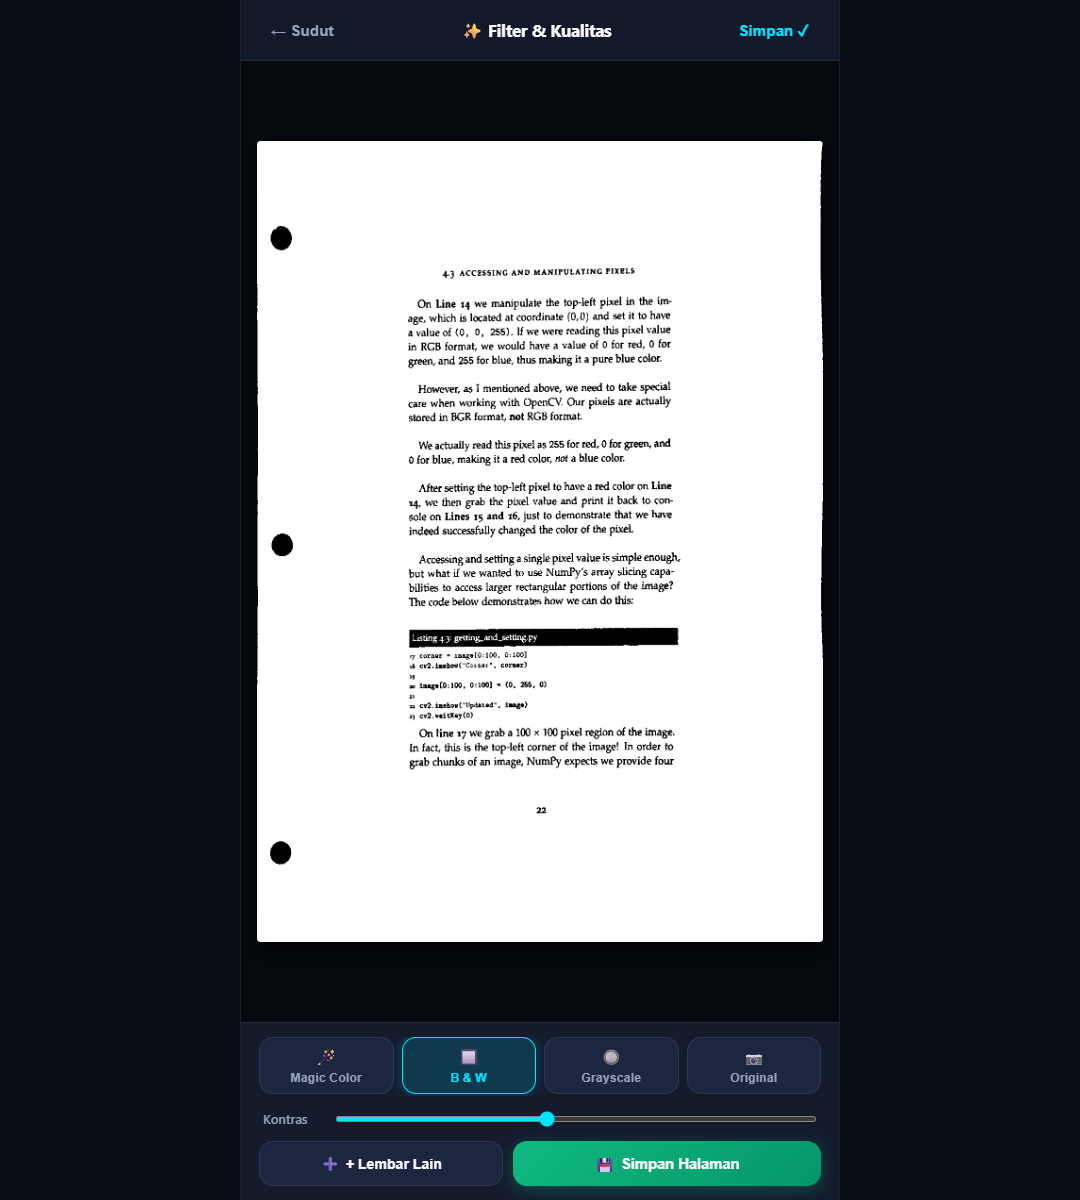
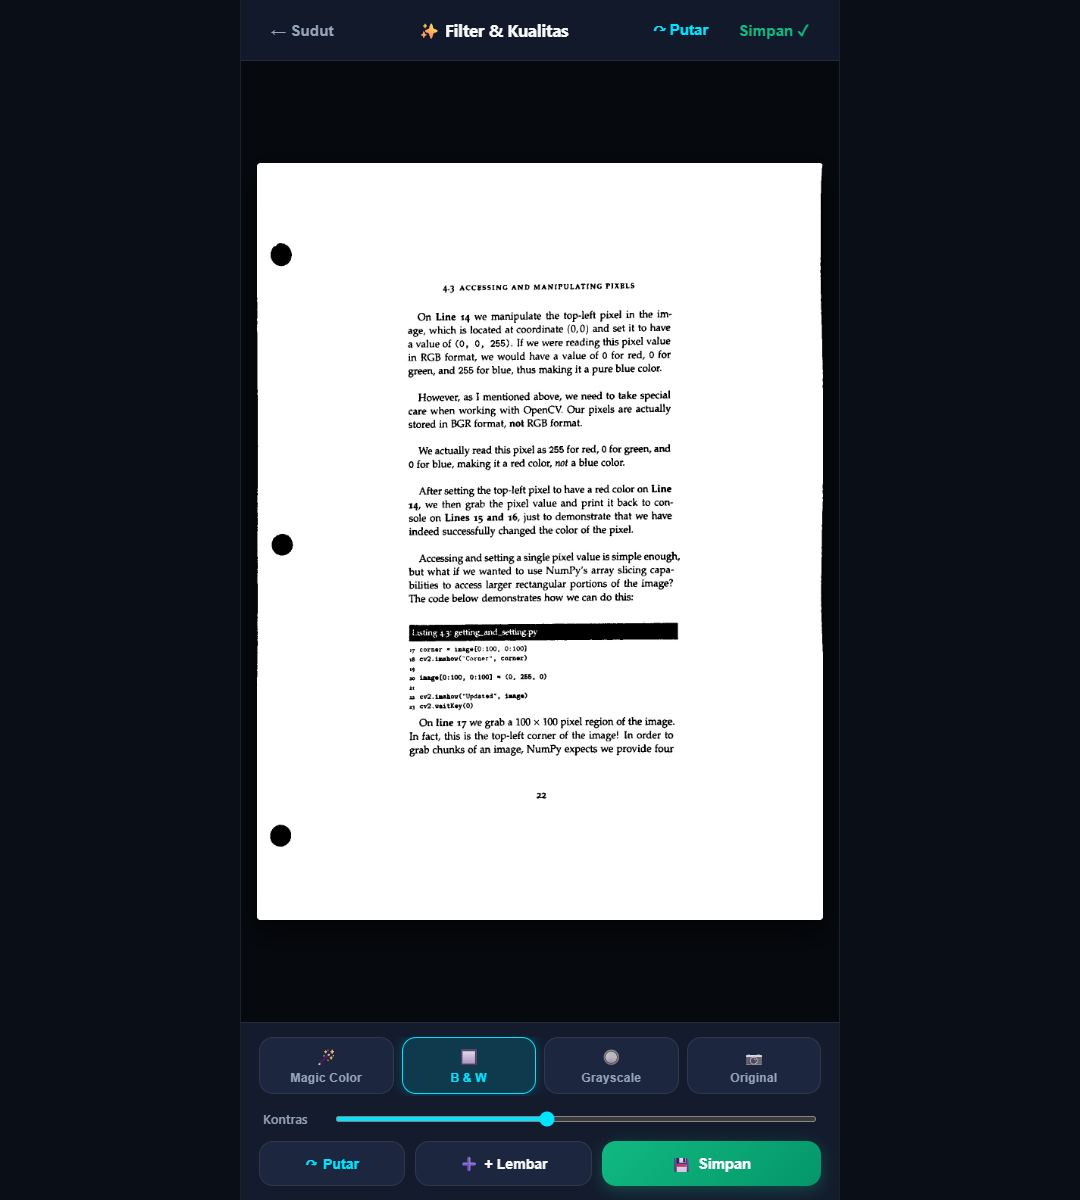
feat: preserve natural aspect ratio, add rotate 90 deg feature, and Laplacian unsharp text sharpening

diff --git a/public/js/scanner-core.js b/public/js/scanner-core.js
@@ -396,10 +396,59 @@ export class ScannerCore {
   }
 
   /**
+   * Menghitung dimensi alami dokumen dari 4 sudut (mempertahankan rasio aspek asli, tidak gepeng)
+   */
+  static computeNaturalDimensions(corners, maxDim = 2000) {
+    const [tl, tr, br, bl] = corners;
+    const widthBottom = Math.hypot(br.x - bl.x, br.y - bl.y);
+    const widthTop = Math.hypot(tr.x - tl.x, tr.y - tl.y);
+    const naturalW = Math.max(widthBottom, widthTop);
+
+    const heightRight = Math.hypot(tr.x - br.x, tr.y - br.y);
+    const heightLeft = Math.hypot(tl.x - bl.x, tl.y - bl.y);
+    const naturalH = Math.max(heightRight, heightLeft);
+
+    // Skala resolusi tinggi untuk menjaga ketajaman huruf
+    const scale = maxDim / Math.max(naturalW, naturalH);
+    const targetW = Math.max(300, Math.round(naturalW * scale));
+    const targetH = Math.max(300, Math.round(naturalH * scale));
+
+    return { width: targetW, height: targetH };
+  }
+
+  /**
+   * Memutar canvas 90 derajat searah jarum jam secara bebas
+   */
+  static rotateCanvas(canvas, degrees = 90) {
+    const rad = (degrees * Math.PI) / 180;
+    const newCanvas = document.createElement('canvas');
+
+    if (degrees === 90 || degrees === 270) {
+      newCanvas.width = canvas.height;
+      newCanvas.height = canvas.width;
+    } else {
+      newCanvas.width = canvas.width;
+      newCanvas.height = canvas.height;
+    }
+
+    const ctx = newCanvas.getContext('2d', { willReadFrequently: true });
+    ctx.translate(newCanvas.width / 2, newCanvas.height / 2);
+    ctx.rotate(rad);
+    ctx.drawImage(canvas, -canvas.width / 2, -canvas.height / 2);
+    return newCanvas;
+  }
+
+  /**
    * Meluruskan sudut dokumen foto ke bidang datar persegi (Perspective Warp)
    * Menggunakan interpolasi bilinear terbalik (Backward Mapping) bebas celah
    */
-  static warpPerspective(sourceCanvas, corners, outWidth = 1200, outHeight = 1697) {
+  static warpPerspective(sourceCanvas, corners, outWidth = null, outHeight = null) {
+    if (!outWidth || !outHeight) {
+      const dims = this.computeNaturalDimensions(corners, 2000);
+      outWidth = dims.width;
+      outHeight = dims.height;
+    }
+
     const targetCanvas = document.createElement('canvas');
     targetCanvas.width = outWidth;
     targetCanvas.height = outHeight;
@@ -661,6 +710,37 @@ export class ScannerCore {
             val = factor * (val - 128) + 128;
           }
           data[i + c] = Math.min(255, Math.max(0, val));
+        }
+      }
+    }
+
+    // -------------------------------------------------------------------------
+    // E. TEXT SHARPENING PASS (Laplacian Unsharp Mask)
+    // Menajamkan guratan huruf, angka kecil, stempel, dan tanda tangan agar jernih dibaca
+    // -------------------------------------------------------------------------
+    if (filterType === 'magic' || filterType === 'bw' || filterType === 'grayscale') {
+      const sharpenAlpha = 0.40;
+      const copy = new Uint8ClampedArray(data);
+
+      for (let y = 1; y < height - 1; y++) {
+        const row = y * width;
+        for (let x = 1; x < width - 1; x++) {
+          const idx = (row + x) * 4;
+          const lum = 0.299 * copy[idx] + 0.587 * copy[idx + 1] + 0.114 * copy[idx + 2];
+
+          // Hanya tajamkan area teks/tinta dan batas kontras (bukan background putih polos)
+          if (lum < 235) {
+            for (let c = 0; c < 3; c++) {
+              const val = copy[idx + c];
+              const up = copy[idx - width * 4 + c];
+              const down = copy[idx + width * 4 + c];
+              const left = copy[idx - 4 + c];
+              const right = copy[idx + 4 + c];
+
+              const laplacian = (4 * val) - up - down - left - right;
+              data[idx + c] = Math.min(255, Math.max(0, Math.round(val + sharpenAlpha * laplacian)));
+            }
+          }
         }
       }
     }

diff --git a/public/js/app.js b/public/js/app.js
@@ -412,14 +412,24 @@ function rotateWorkingCanvas() {
 }
 
 // -------------------------------------------------------------
-// 3. Warp to A4 & Filter / Enhance View
+// 3. Warp to Document & Filter / Enhance View
 // -------------------------------------------------------------
 document.getElementById('btnWarpDone').addEventListener('click', () => {
-  // Melakukan Warp Perspektif ke format standar A4 (1200 x 1697)
-  state.warpedCanvas = ScannerCore.warpPerspective(state.workingCanvas, state.corners, 1200, 1697);
+  // Melakukan Warp Perspektif dengan dimensi alami dokumen (mempertahankan rasio aspek asli, tidak gepeng)
+  state.warpedCanvas = ScannerCore.warpPerspective(state.workingCanvas, state.corners);
   updateEnhancedPreview();
   showView('enhance');
 });
+
+// Fitur Putar 90 Derajat di Halaman Filter (Enhance View)
+function rotateEnhancedCanvas() {
+  if (!state.warpedCanvas) return;
+  state.warpedCanvas = ScannerCore.rotateCanvas(state.warpedCanvas, 90);
+  updateEnhancedPreview();
+}
+
+document.getElementById('btnEnhanceRotate')?.addEventListener('click', rotateEnhancedCanvas);
+document.getElementById('btnEnhanceRotateHeader')?.addEventListener('click', rotateEnhancedCanvas);
 
 function updateEnhancedPreview() {
   state.filteredCanvas = ScannerCore.applyDocumentFilter(
@@ -484,11 +494,26 @@ function renderPagesGrid() {
     card.innerHTML = `
       <div class="thumb-header">
         <span>Hal ${index + 1}</span>
-        <button class="thumb-del-btn" data-id="${page.id}" title="Hapus halaman">&times;</button>
+        <div class="thumb-actions">
+          <button class="thumb-rot-btn" data-id="${page.id}" title="Putar 90°">↷</button>
+          <button class="thumb-del-btn" data-id="${page.id}" title="Hapus halaman">&times;</button>
+        </div>
       </div>
       <img src="${page.canvas.toDataURL('image/jpeg', 0.6)}" alt="Halaman ${index + 1}">
     `;
     pagesGrid.appendChild(card);
+  });
+
+  // Event putar halaman di galeri
+  document.querySelectorAll('.thumb-rot-btn').forEach(btn => {
+    btn.addEventListener('click', (e) => {
+      const id = e.target.dataset.id;
+      const pageObj = state.pages.find(p => p.id === id);
+      if (pageObj) {
+        pageObj.canvas = ScannerCore.rotateCanvas(pageObj.canvas, 90);
+        renderPagesGrid();
+      }
+    });
   });
 
   // Event hapus halaman

diff --git a/public/index.html b/public/index.html
@@ -133,7 +133,10 @@
       <header class="app-header">
         <button id="btnEnhanceBack" class="header-btn text-muted">← Sudut</button>
         <span class="header-title">✨ Filter & Kualitas</span>
-        <button id="btnSavePageHeader" class="header-btn">Simpan ✓</button>
+        <div style="display: flex; gap: 6px;">
+          <button id="btnEnhanceRotateHeader" class="header-btn" title="Putar 90°">↷ Putar</button>
+          <button id="btnSavePageHeader" class="header-btn" style="color: #10b981;">Simpan ✓</button>
+        </div>
       </header>
 
       <div class="enhance-preview-container">
@@ -169,13 +172,17 @@
 
         <!-- Action Row -->
         <div class="enhance-actions">
+          <button id="btnEnhanceRotate" class="btn-rotate-page" title="Putar 90°">
+            <span>↷</span>
+            <span>Putar</span>
+          </button>
           <button id="btnAddAnother" class="btn-add-page">
             <span>➕</span>
-            <span>+ Lembar Lain</span>
+            <span>+ Lembar</span>
           </button>
           <button id="btnSavePage" class="btn-save-page">
             <span>💾</span>
-            <span>Simpan Halaman</span>
+            <span>Simpan</span>
           </button>
         </div>
       </div>

diff --git a/public/css/styles.css b/public/css/styles.css
@@ -559,6 +559,28 @@ body {
   gap: 10px;
 }
 
+.btn-rotate-page {
+  flex: 0.8;
+  background: var(--bg-card);
+  border: 1px solid var(--border-color);
+  color: var(--primary);
+  padding: 12px;
+  border-radius: var(--radius-md);
+  font-size: 0.88rem;
+  font-weight: 600;
+  cursor: pointer;
+  display: flex;
+  align-items: center;
+  justify-content: center;
+  gap: 6px;
+  transition: all 0.2s ease;
+}
+
+.btn-rotate-page:hover {
+  background: var(--bg-card-hover);
+  border-color: var(--primary);
+}
+
 .btn-add-page {
   flex: 1;
   background: var(--bg-card);
@@ -707,6 +729,32 @@ body {
   font-size: 0.8rem;
   font-weight: 600;
   color: var(--text-muted);
+}
+
+.thumb-actions {
+  display: flex;
+  align-items: center;
+  gap: 6px;
+}
+
+.thumb-rot-btn {
+  background: rgba(0, 229, 255, 0.15);
+  border: none;
+  color: var(--primary);
+  width: 24px;
+  height: 24px;
+  border-radius: 50%;
+  display: flex;
+  align-items: center;
+  justify-content: center;
+  font-size: 0.95rem;
+  cursor: pointer;
+  transition: all 0.2s ease;
+}
+
+.thumb-rot-btn:hover {
+  background: var(--primary);
+  color: #051020;
 }
 
 .thumb-del-btn {
